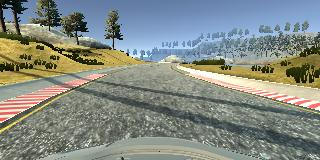
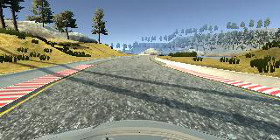
Change image sizes

diff --git a/writeup_report.md b/writeup_report.md
@@ -122,9 +122,9 @@ To augment the data sat, I also flipped images and angles thinking that this wou
 
 I also added left and right camera images to the training set with corrected stearing angle +0.3 for the left camera image and -0.3 for the right one. That provided more data points for NN. 0.3 correction angle was picked experimentally and helped a lot during solving a  bias towards center line driving of neural network.
 
-![alt text][image9]{:width="80%"}
-![alt text][image10]{:width="80%"}
-![alt text][image11]{:width="80%"}
+![alt text][image9]
+![alt text][image10]
+![alt text][image11]
 
 
 After the collection process, I had about 7500 data points. I then preprocessed this data by converting the images into RGB color space from BGR, then cropping the image by removing top part with the sky and bottom part with mostly car's hood as insignificant for training and finally normalized pixels to [0, 1] interval. 
